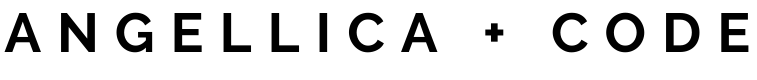
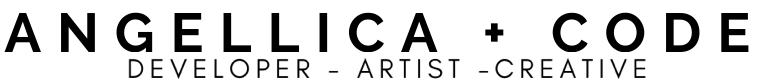
update to look

Changed region(s): [[0.1519, 0.725, 0.8507, 0.975], [0.8203, 0.65, 0.8507, 0.675], [0.7292, 0.65, 0.7596, 0.675]]

diff --git a/index.html b/index.html
@@ -54,6 +54,41 @@ window.typeWords();
 <a href="index.html" style="padding-left: 0.5%; padding-right: 10%; text-decoration: none;">Contact</a>
 </div>
 
+<br>
+
+<div id="intro">
+	<img src="laptop.png" style="float: right;"/>
+	<h2 id="logo" style="float:left; position: relative;z-index: 1; font-size:50px;">Angellica</h2>
+	<h2 id="logodesc" style="top: 21.5%;position:absolute;font-size:25px;">Future Animation Technical Director & Software Dev</h2>
+	<hr>
+	<h2 id="logodesc" style="top: 28%;position:absolute;font-size:20px;">I've always found the world of technology inspiring.<br>But what is more inspiring, is the opportunity to make a difference.<br>Let's work together to make a positive impact.</h2>
+
+	<h2 id="logodesc" style="top: 50%;position:absolute;font-size:30px;">SITE UNDER CONSTRUCTION</h2>
+
+	<img class="cur" src="/cursor.png"/>
+</div>
+
+
+
+
+
+<!--<script>
+var LogoWords="DEVELOPER";
+var DescWords="Angellica's Programming Portfolio"
+var i = 0;
+function typeWords(){
+if (i < DescWords.length ){
+	document.getElementById("logo").innerHTML += LogoWords.charAt(i);
+	//document.getElementById("logodesc").innerHTML += DescWords.charAt(i);
+	i++;
+	setTimeout(typeWords, 100);
+}
+}
+
+window.typeWords();
+</script>-->
+
+
 
 </body>
 </html>

diff --git a/style.css b/style.css
@@ -5,20 +5,24 @@ body {
 
 h1 {	
 	font-family: Courier, sans-serif;	
-	color: white;
+	color: black;
 	font-size: 150px;
 }
 h2 {	
 	font-family: Courier, sans-serif;	
-	color: white;
+	color: black;
+	font-weight: lighter;
 	font-size: 50px;
 }
 
+#logo {
+
+}
 
 a {	
-	font-family: 'Gill Sans', 'Gill Sans MT', Calibri, 'Trebuchet MS', sans-serif;	
+	font-family: Courier, sans-serif;
 	color:black;
-	font-size: 35px;
+	font-size: 20px;
 }
 
 a:hover {
@@ -141,9 +145,17 @@ a:hover {
 .menu {
 	background-color:rgb(216, 240, 128);
 	width: 100%;
-	height: 5%;
+	height: 3%;
 	left: 0;
 	position: fixed;
-	top:10%;
+	top:12%;
 
+}
+
+#intro {
+
+	padding-left: 0%;
+	padding-top: 0%;
+	width: 100%;
+	float: right;
 }
